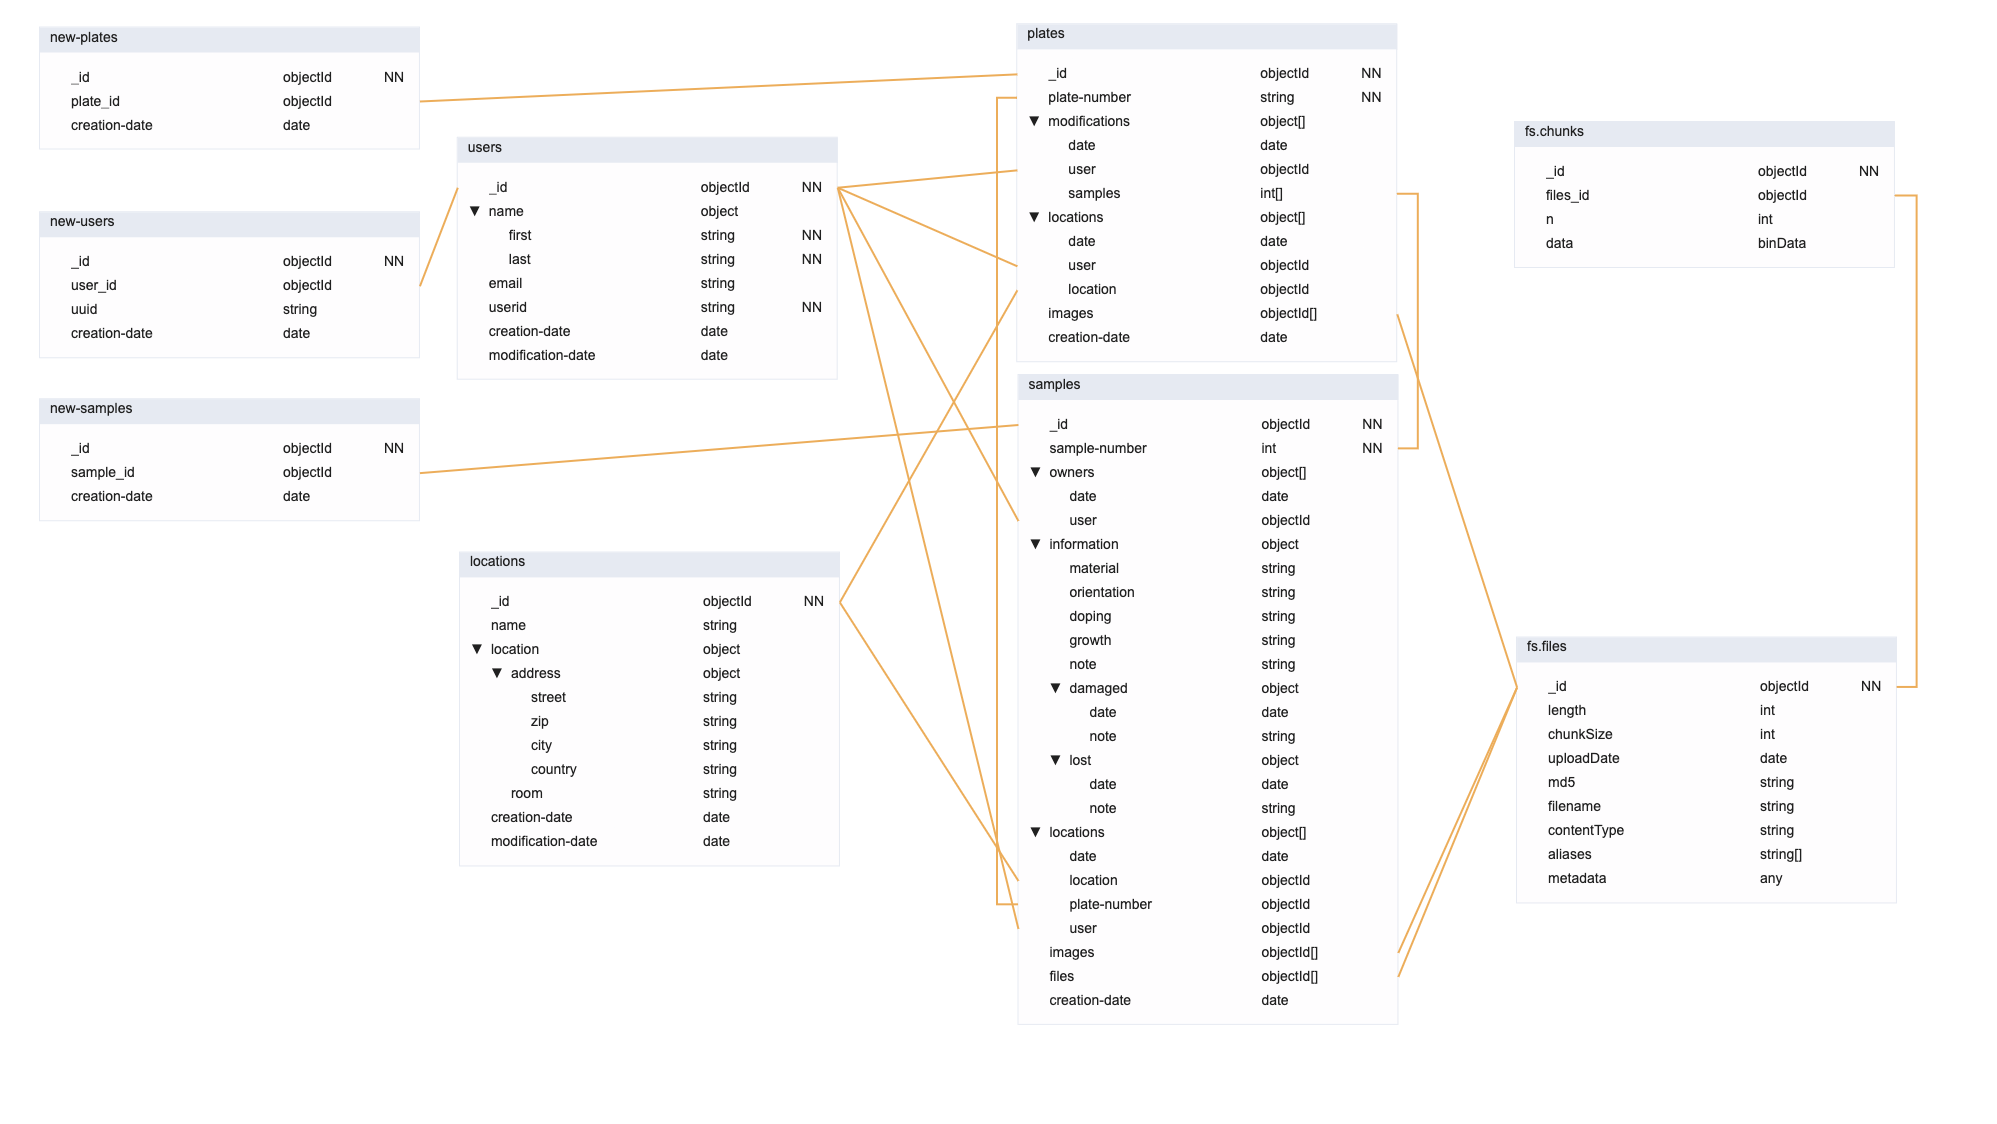
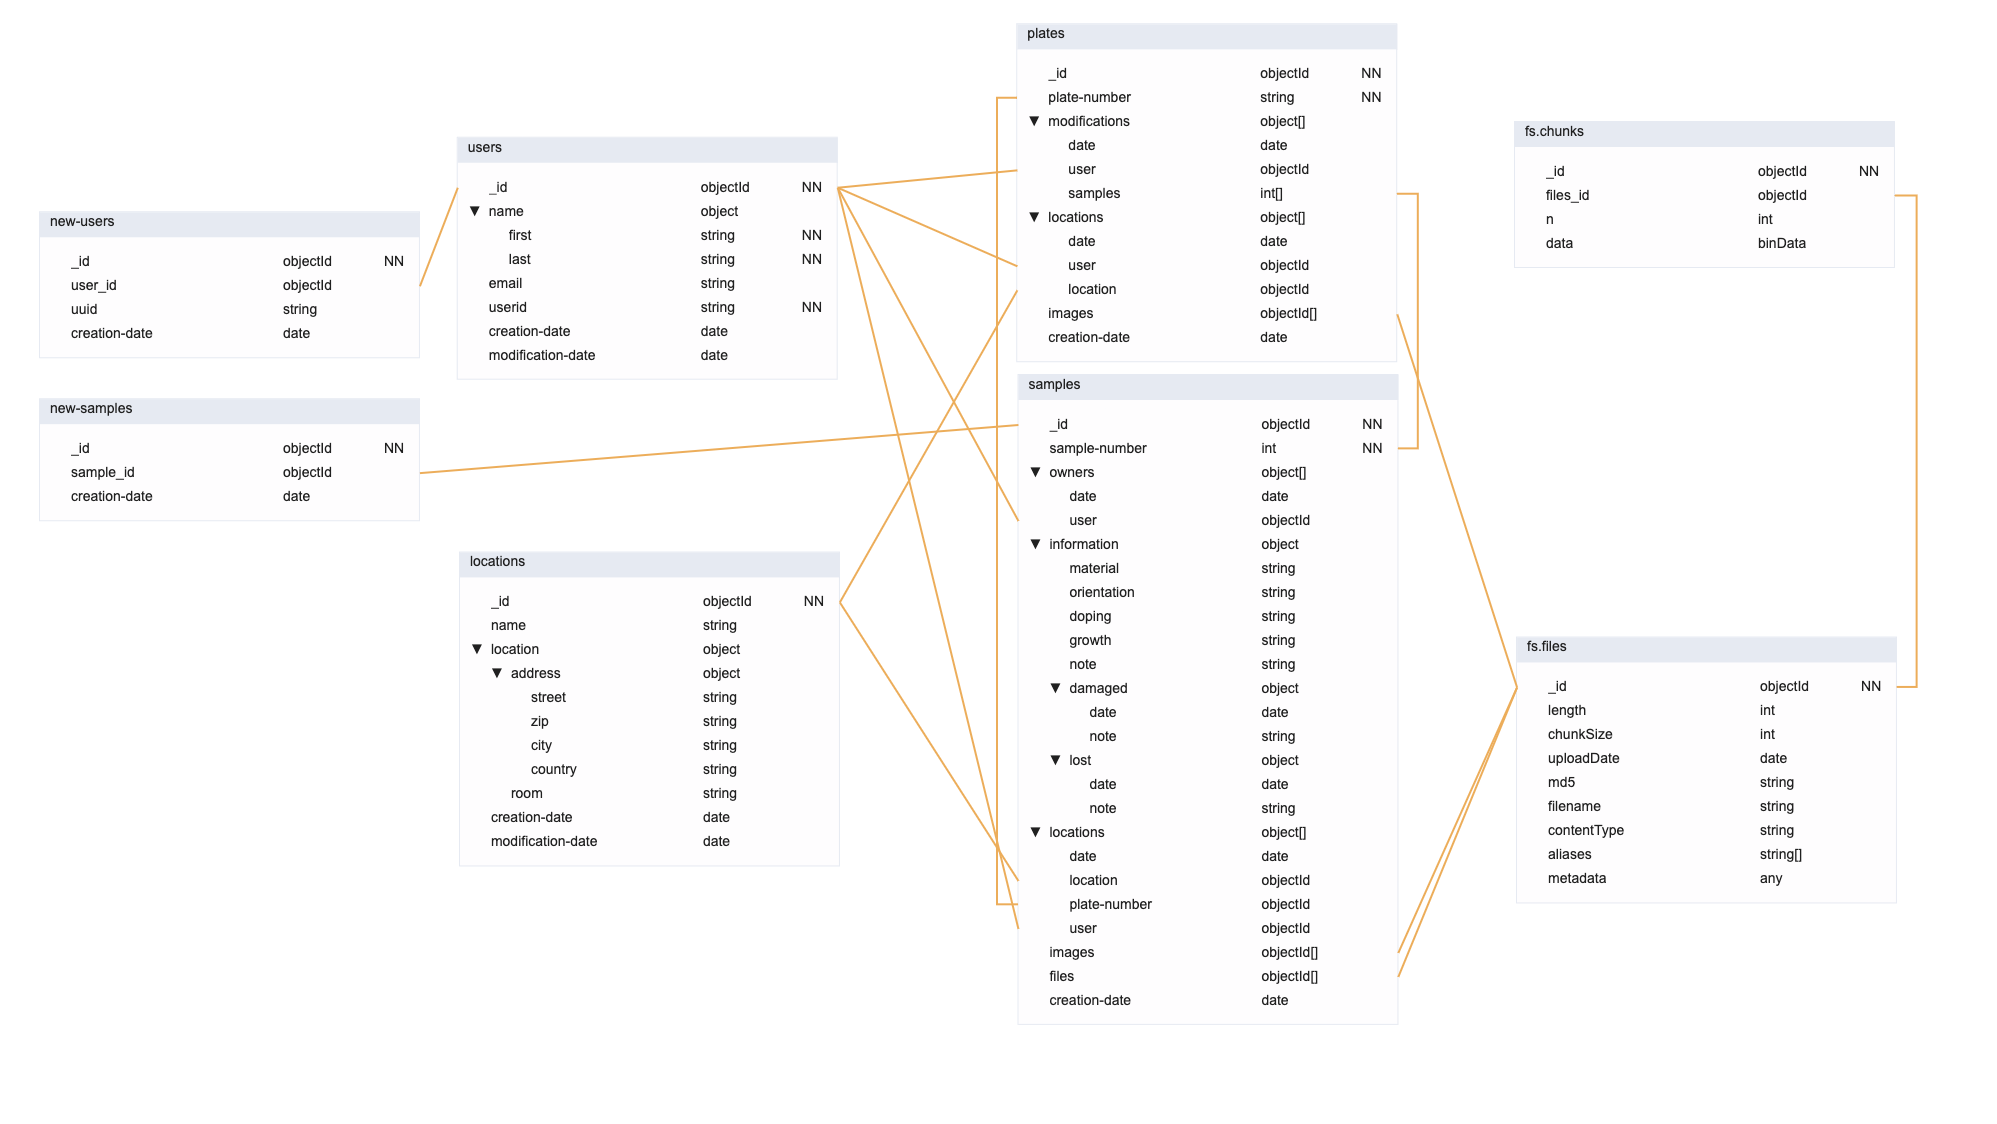
:memo: modify database ERM

Changed region(s): [[0.0, 0.0, 0.2173, 0.1246]]

diff --git a/readme/dbdiagram_schemaScript.js b/readme/dbdiagram_schemaScript.js
@@ -1,18 +1,3 @@
-db.createCollection("new-plates", {
-  validator: {
-    $jsonSchema: {
-      bsonType: "object",
-      title: "new-plates",
-      required: ["_id"],
-      properties: {
-        "_id": { bsonType: "objectId" },
-        "plate_id": { bsonType: "objectId" },
-        "creation-date": { bsonType: "date" },
-      },
-    },
-  },
-});
-
 db.createCollection("new-samples", {
   validator: {
     $jsonSchema: {
